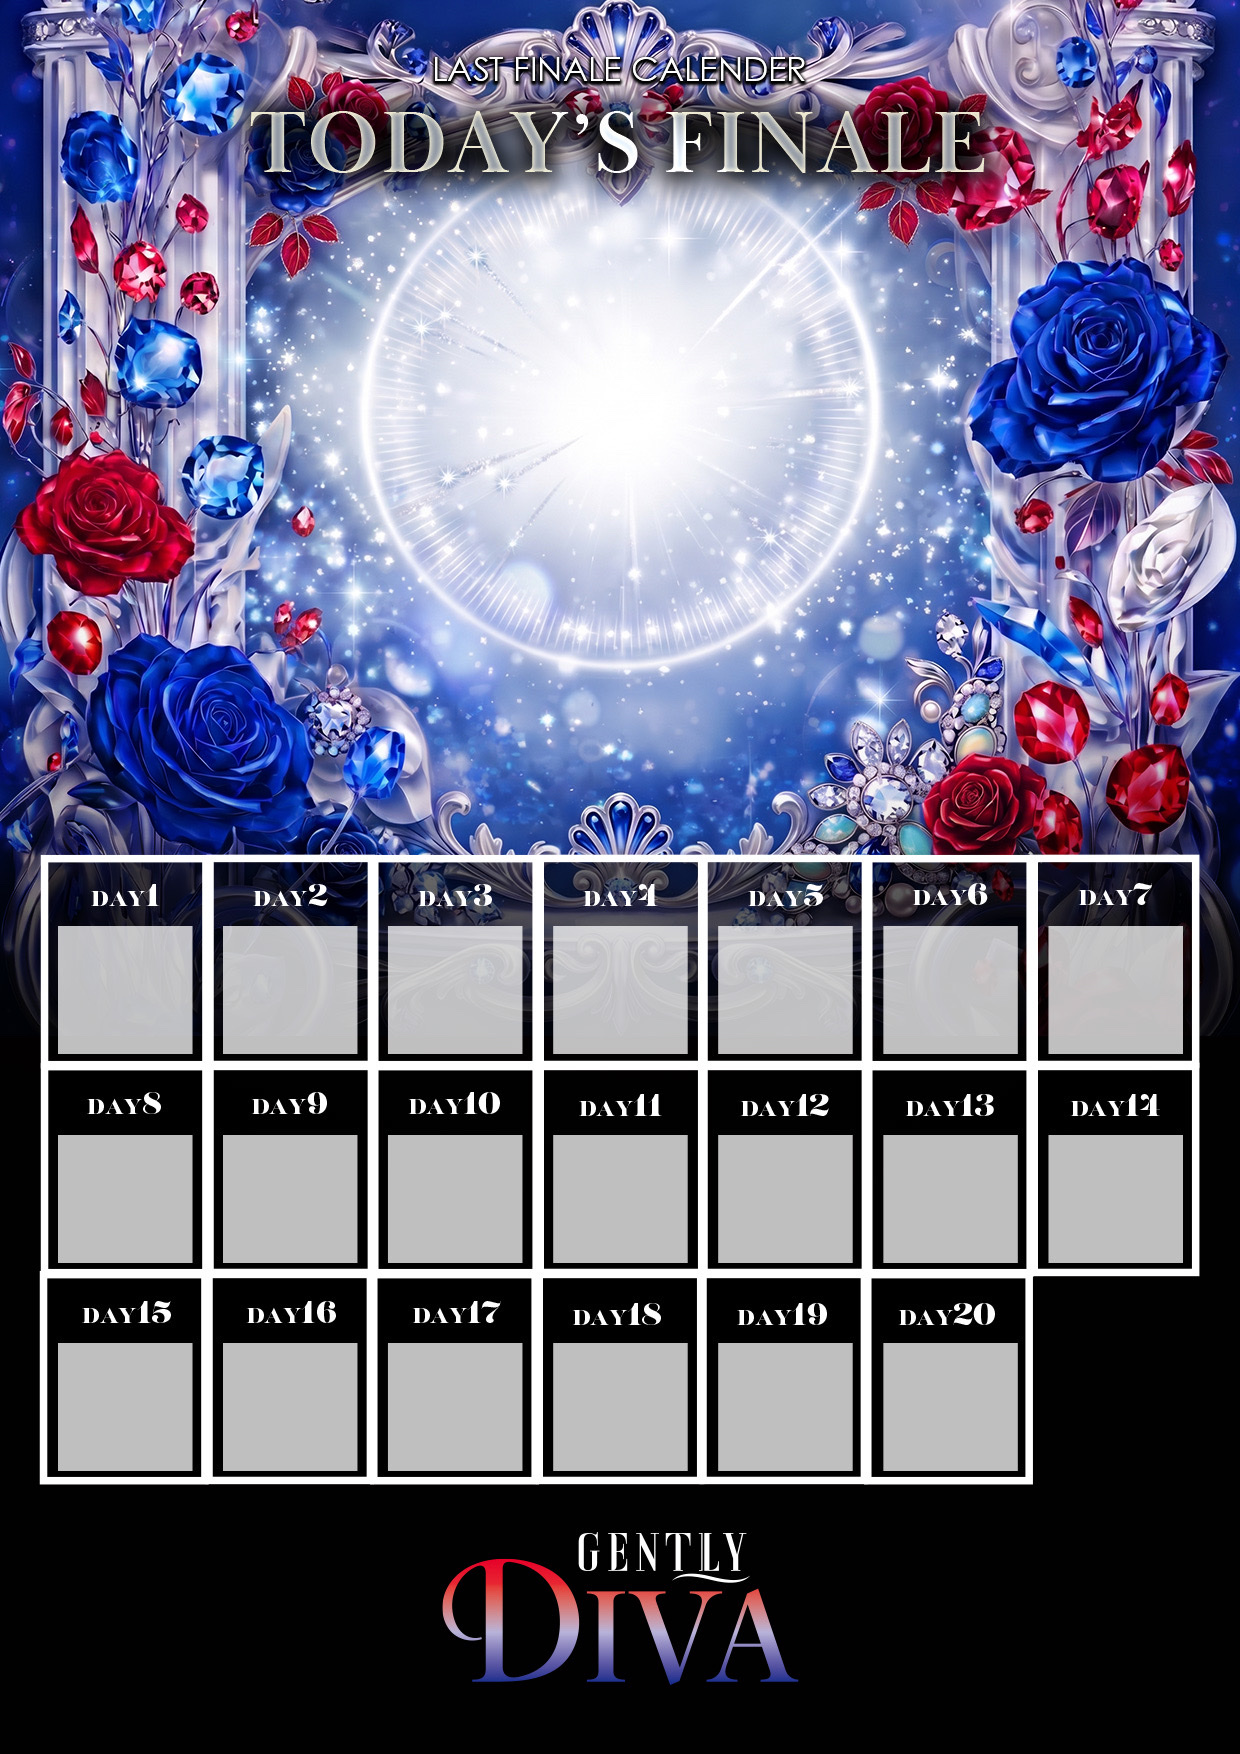
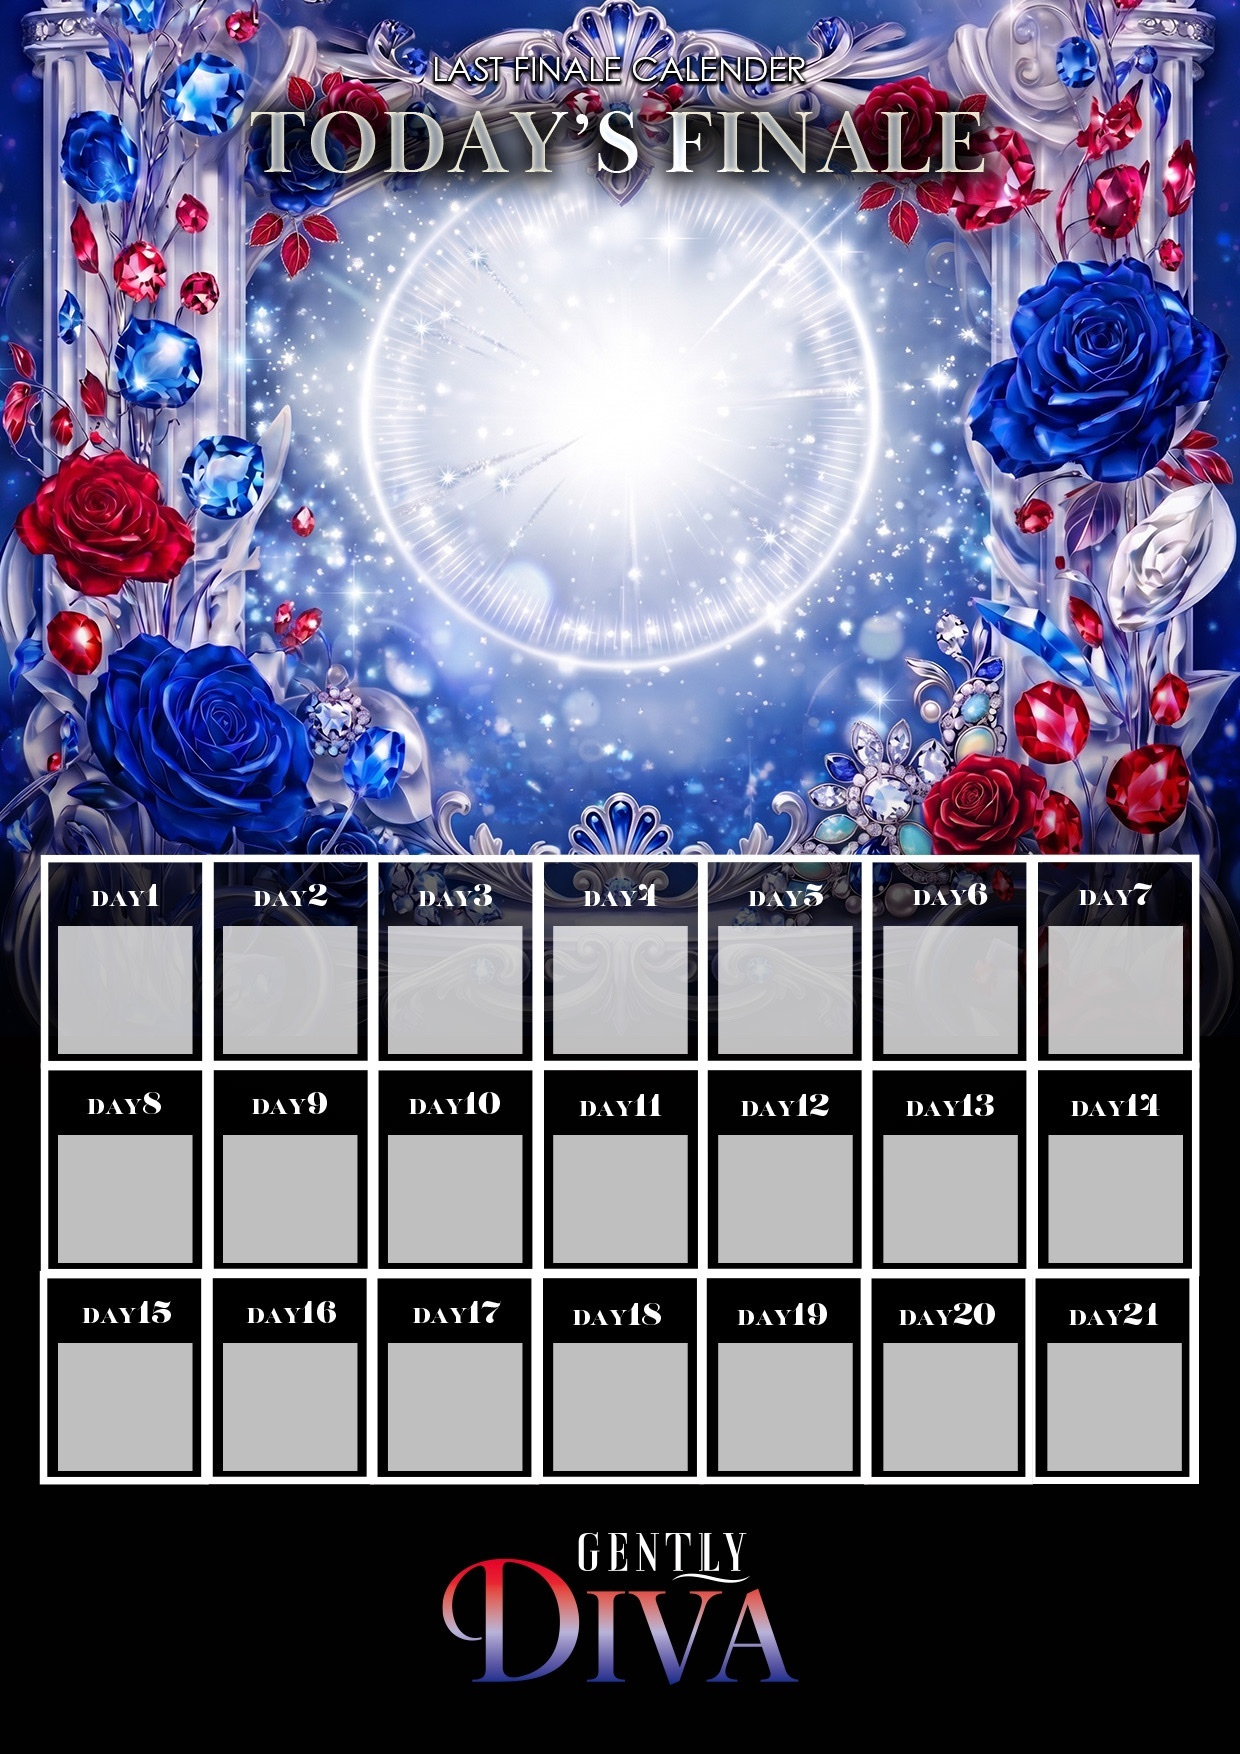
ファイナルカレンダー: DAY21 の枠を足した
- 背景の絵の右下の空きに、DAY20 の枠をそのまま写して置き、見出しを DAY21 に組み替えた
  （DAY20 の「0」を消し、DAY11 の「1」の字を置いた。文字は元の絵の字をそのまま使っている）。
  右端の白い線は上の段とそろえた。
- 1 か月の枠を 20 → 21 にした。

Changed region(s): [[0.8274, 0.7081, 0.9806, 0.862]]

diff --git a/src/finale.js b/src/finale.js
@@ -22,7 +22,7 @@ const SLOT_XS = [58, 223, 388, 554, 719, 884, 1049];
 const SLOT_YS = [926, 1135, 1343];
 const SLOT_W = 134;
 const SLOT_H = 128;
-const MAX_DAYS = 20;
+const MAX_DAYS = 21; // 2026-10-01 背景の右下に DAY21 の枠を足した（DAY20 の枠を写して見出しを組み替えた）
 const HERO = { x: 248, y: 184, w: 744, h: 666 };
 
 // 営業終わりは日付をまたぐので、朝 6 時までは前の日（前の月）として扱う
@@ -271,7 +271,7 @@ function render() {
 
   const last = ledger.days[ledger.days.length - 1];
   document.getElementById('fc-note').textContent = next >= MAX_DAYS
-    ? `今月の 20 枠はすべて埋まりました。`
+    ? `今月の ${MAX_DAYS} 枠はすべて埋まりました。`
     : `枠の「＋」を押して、今日のファイナルの人を選んでください（次は DAY${next + 1}）。${last ? `最後に入れたのは DAY${next}「${last.name}」さんです。` : ''}`;
 }
 

diff --git a/STUDIO.md b/STUDIO.md
@@ -58,7 +58,7 @@
 
 ## まだやっていないこと
 
-- ファイナルカレンダーは 1 か月 20 枠まで（背景の絵に 20 枠しか無い）。21 営業日目からは入らない
+- ファイナルカレンダーは 1 か月 21 枠まで（背景の絵の右下に DAY21 を足した）。22 営業日目からは入らない
 - ファイナルカレンダーの枠の顔の位置は、2026-10-01 時点の DIVA の 11 人だけ顔を見つけて自動で決めた。あとから足した人・写真を差し替えた人は真ん中寄りに出るので、画面で直す
 - ファイナルカレンダー上の大枠の写真の背景消しは手作業（背景を消した写真を画面から載せる）。載せない月はメニューの写真をふちをぼかして出す
 - 料金システム／ALLCAST の振り分けは「源氏名が空かどうか」で自動。1枚ずつ手で移す仕組みは無い
